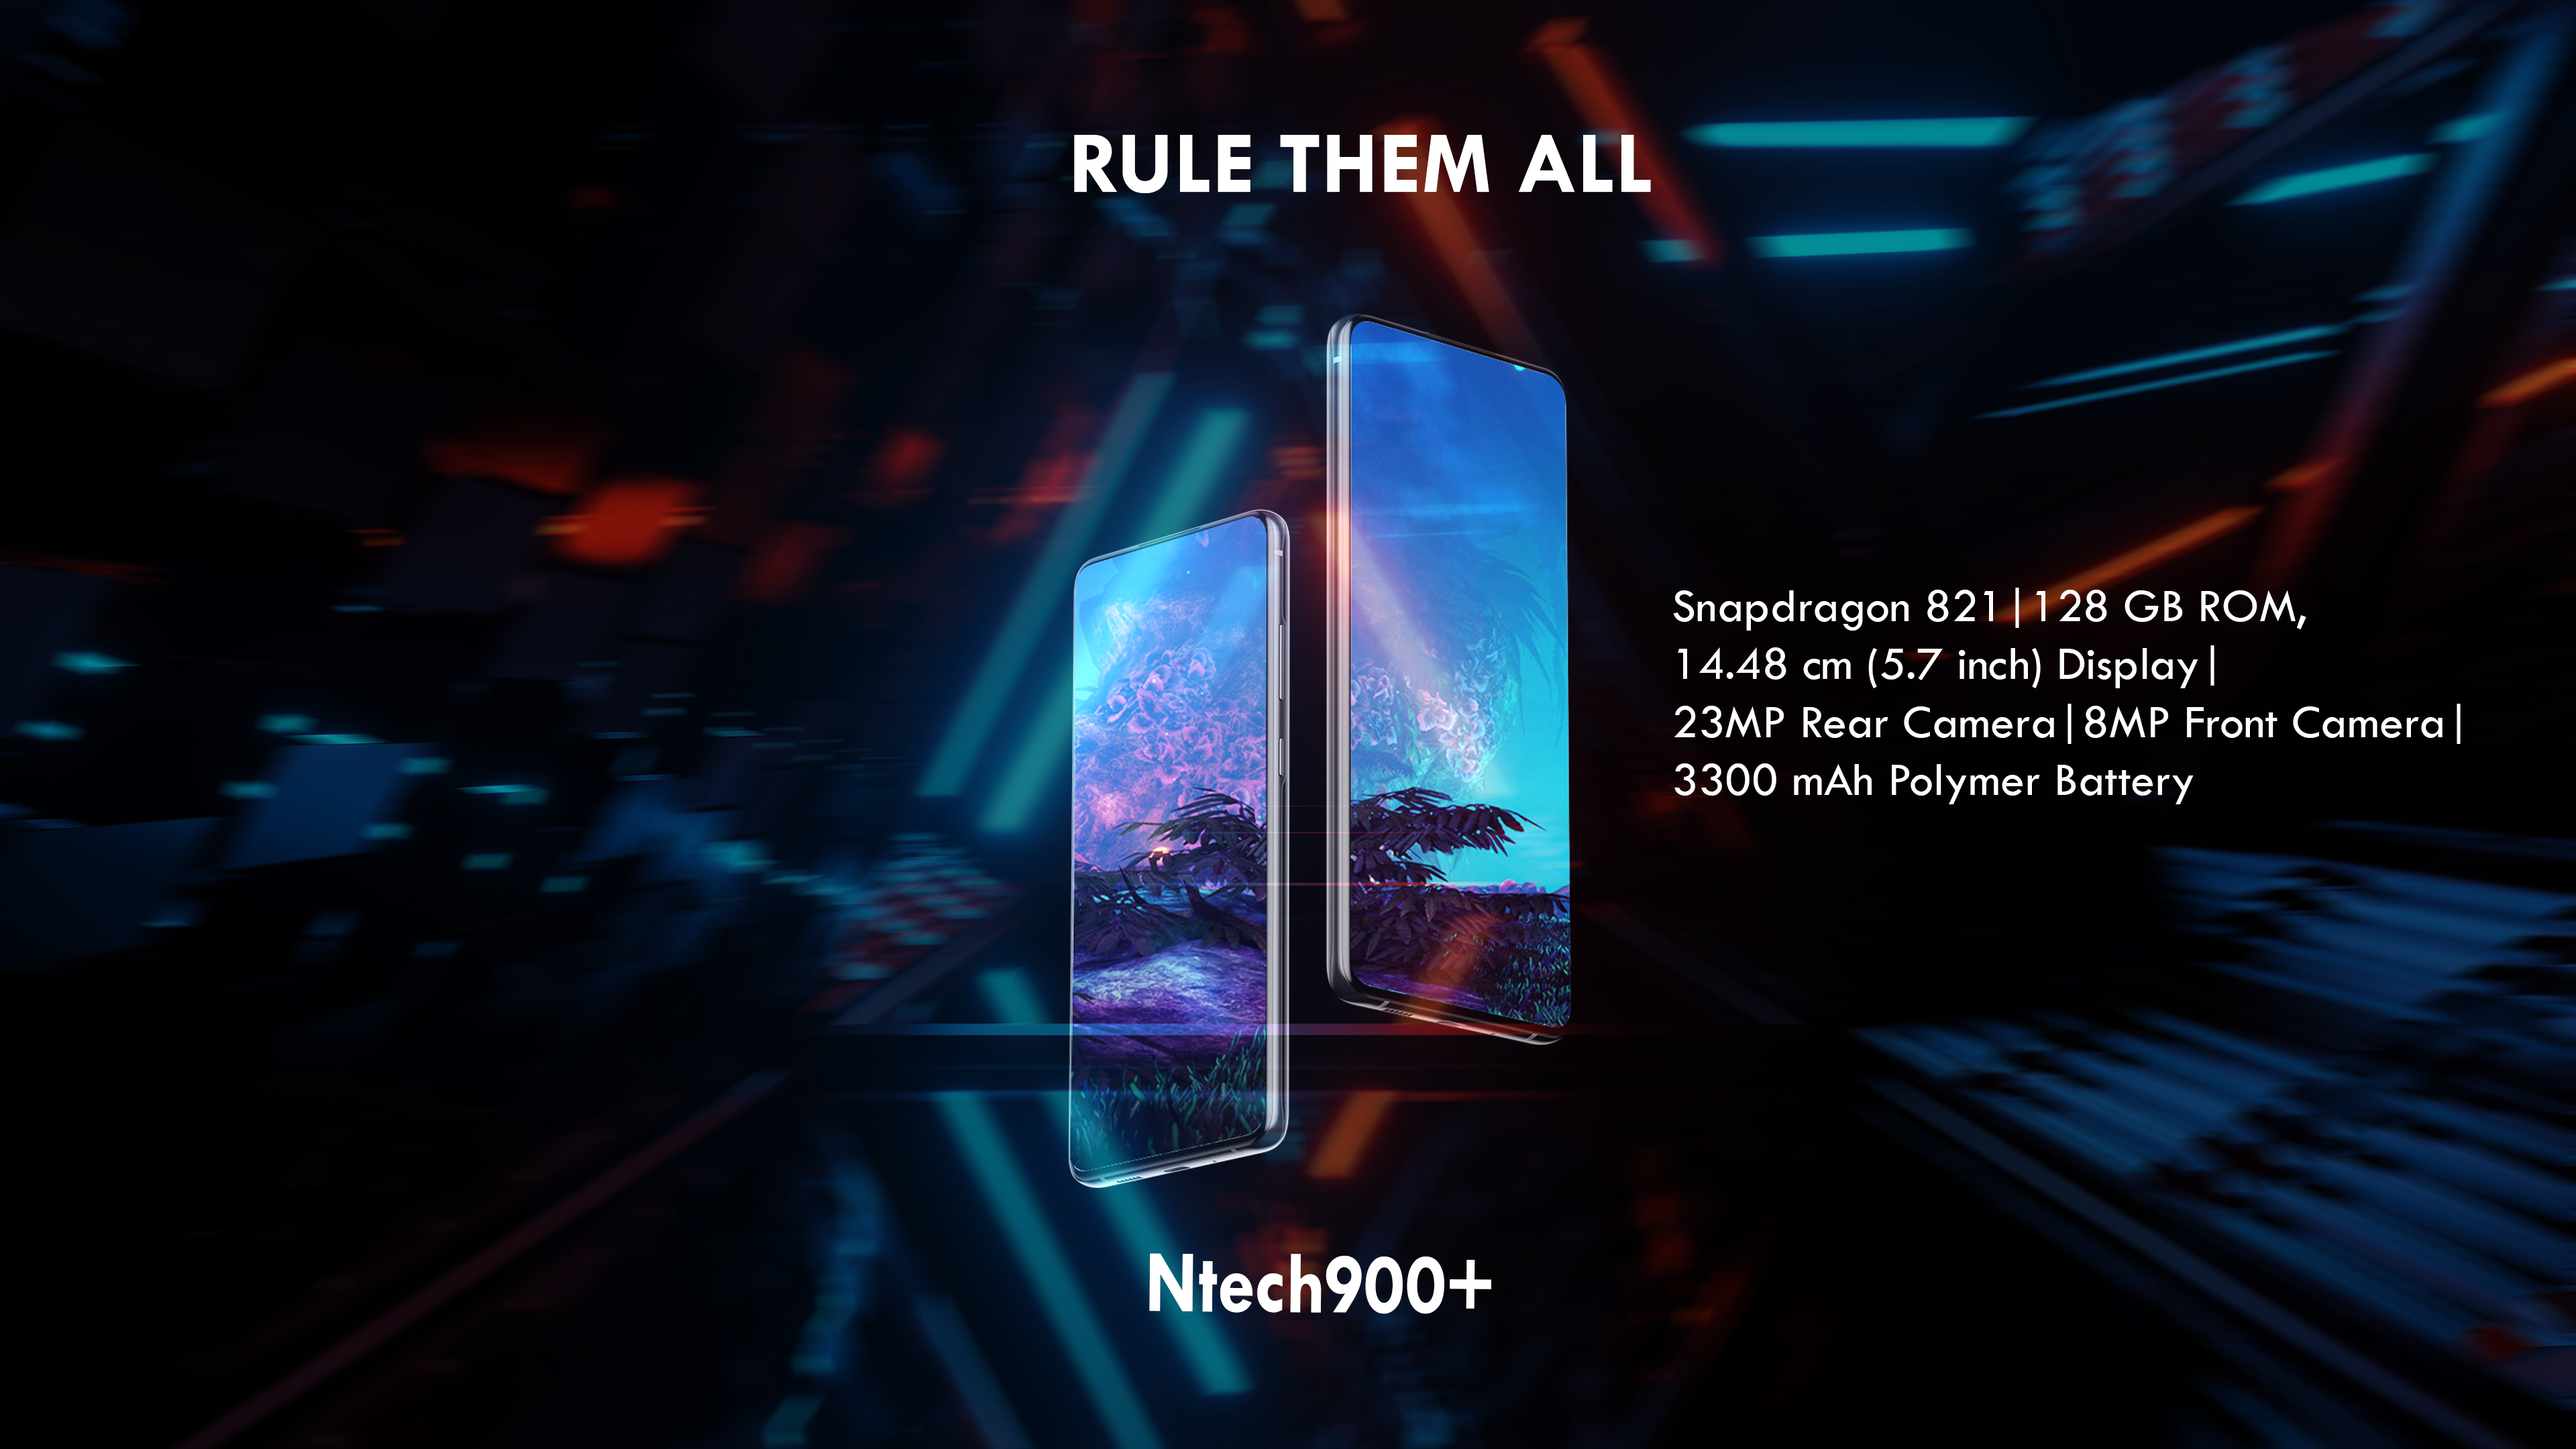
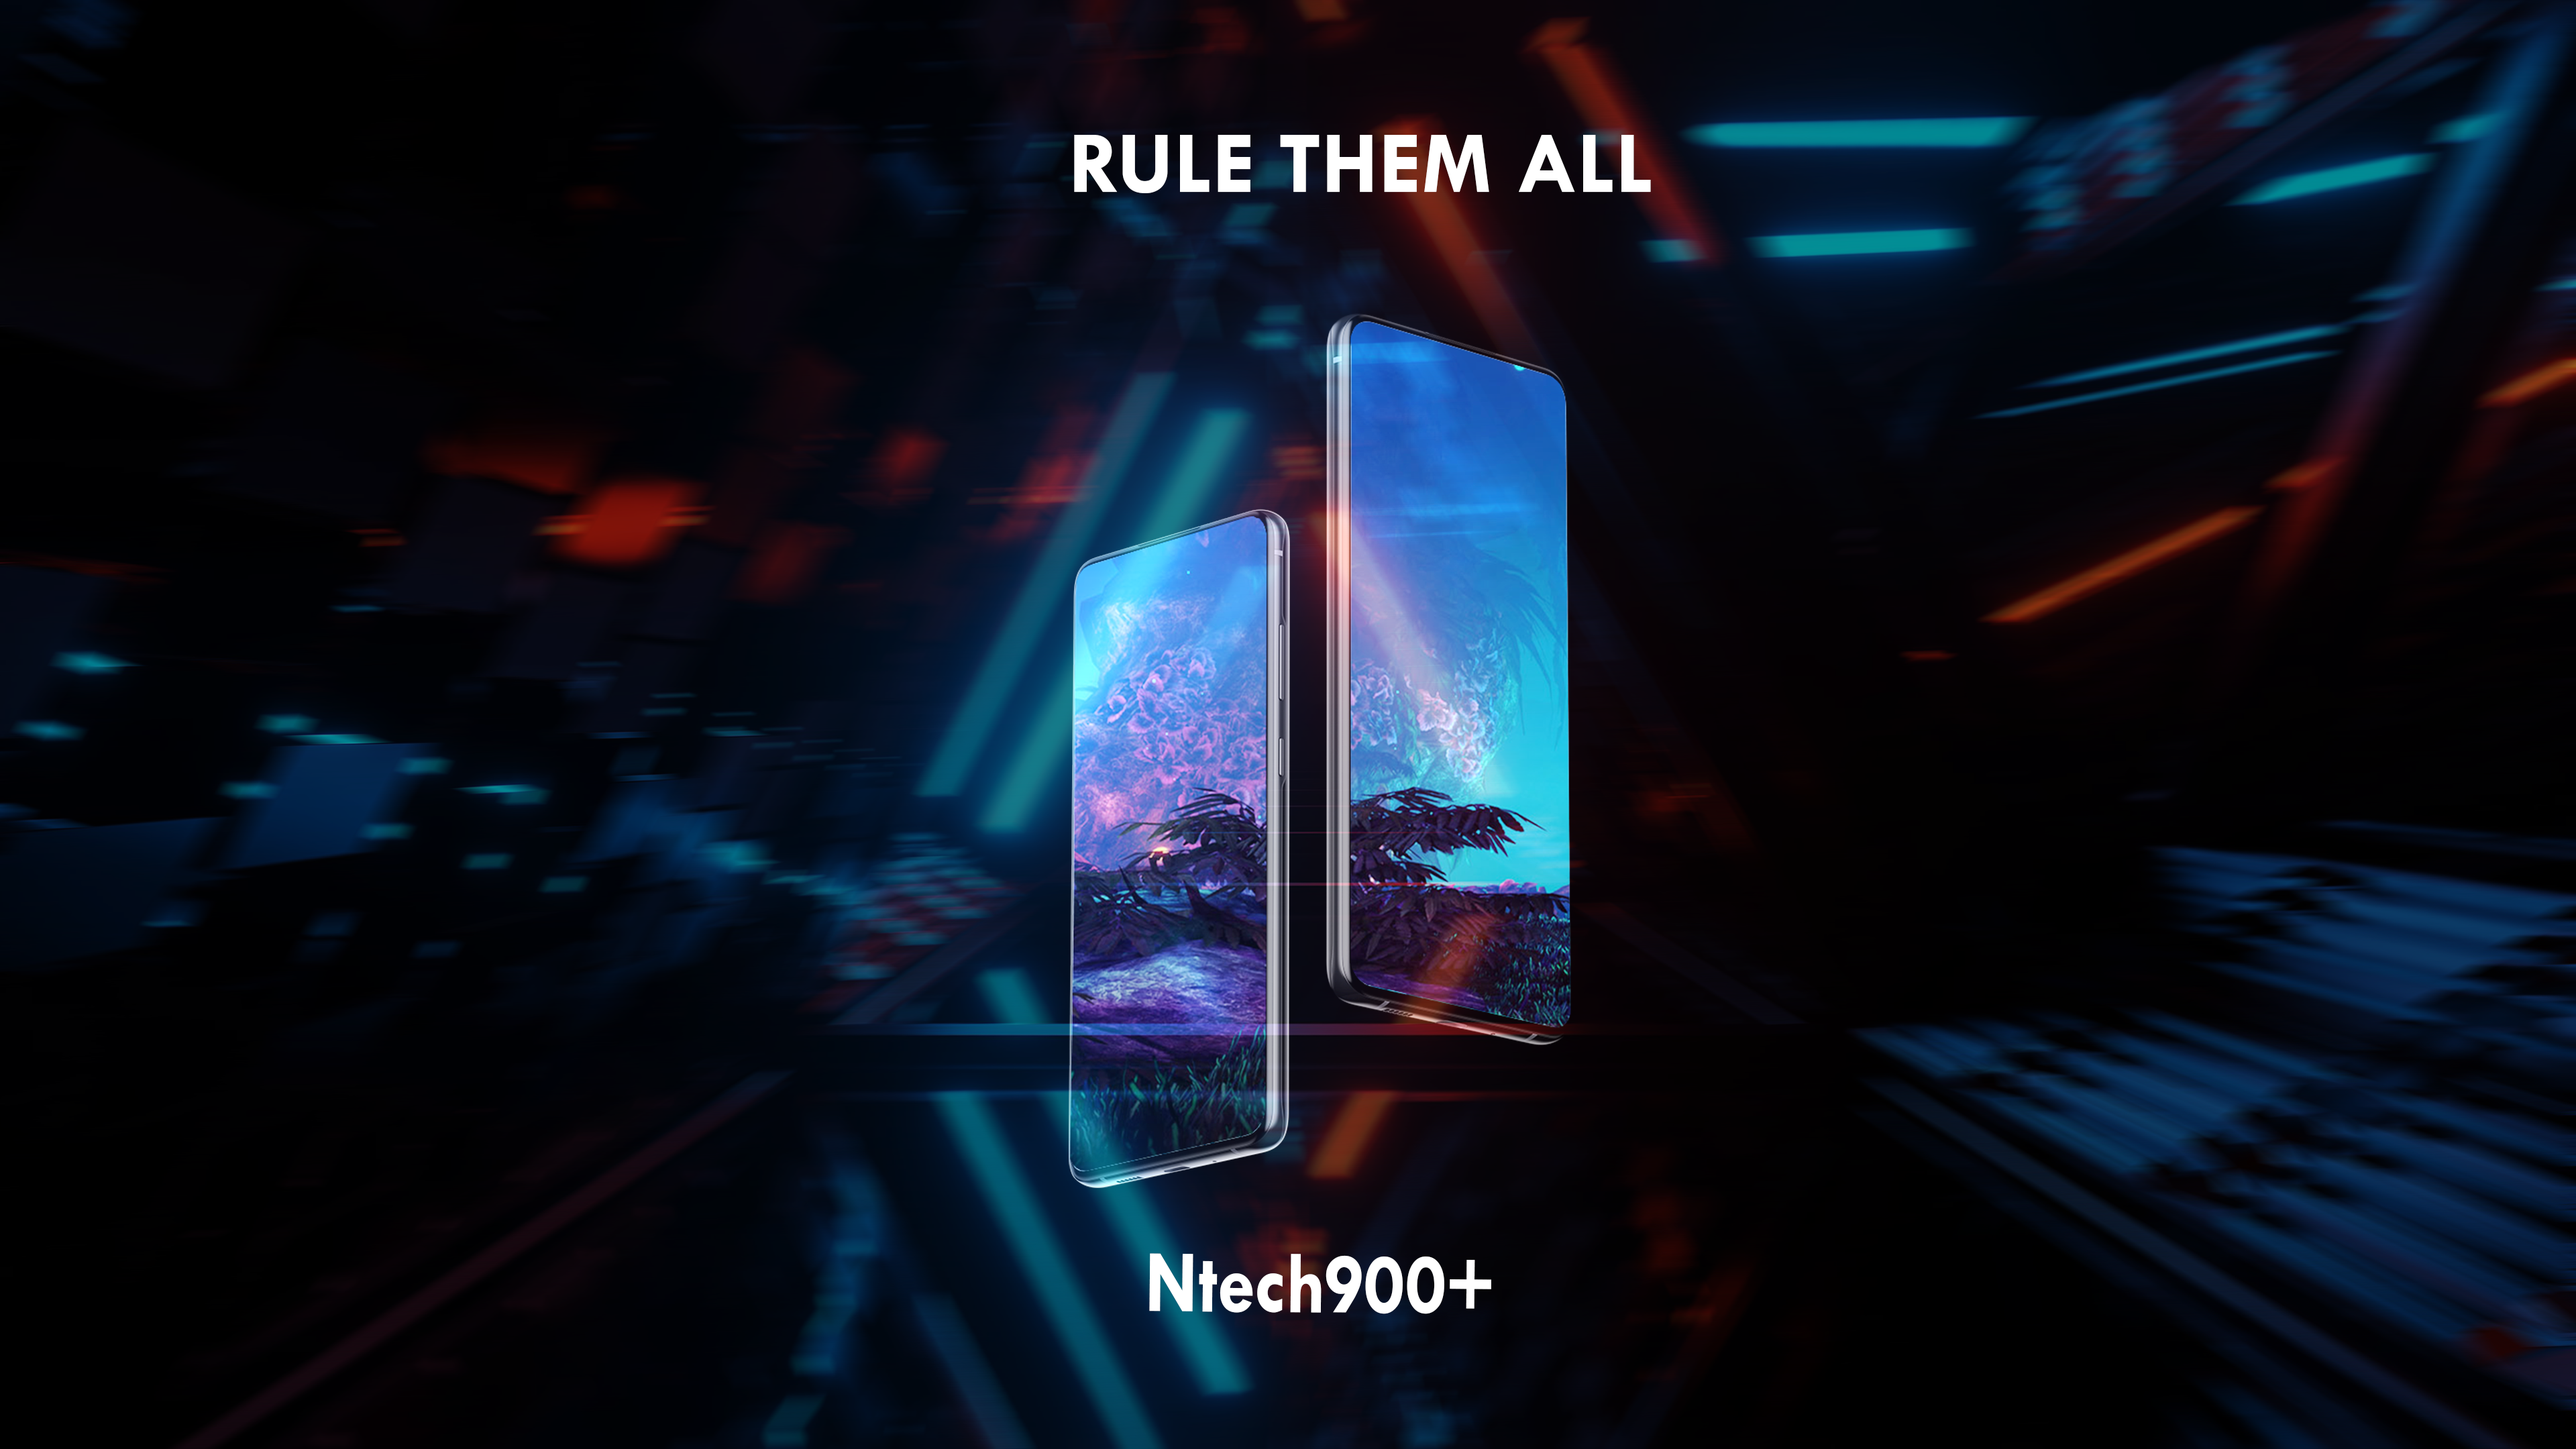
v7

Changed region(s): [[0.6562, 0.4032, 0.9375, 0.5583]]

diff --git a/src/components/layout.css b/src/components/layout.css
@@ -90,18 +90,16 @@ h1, h2, h3, h4, h4, h5, h6 {
 }
 
 #home {
-  /* height: max-content; */
   background-image: url("../images/HTML\ USE\ IMAGE/banner.jpg");
   -webkit-background-size: cover;
   -moz-background-size: cover;
   -o-background-size: cover;
-  /* background-size: cover; */
+  background-size: cover;
   background-position: center center;
   /* height: fit-content; */
   background-repeat: no-repeat;
   overflow: hidden;
-  z-index: -1;
-  padding-top: 6em;
+  /* padding-top: 6em; */
   /* margin-top: -8em; */
 }
 
@@ -254,6 +252,13 @@ h1, h2, h3, h4, h4, h5, h6 {
 }
 
 #heading {
+  text-align: center;
+  font-size: 3em;
+  font-family: twcenmt !important;
+  margin-top: 2em;
+}
+
+#heading_ {
   text-align: center;
   font-size: 3em;
   font-family: twcenmt !important;
@@ -544,17 +549,52 @@ h1, h2, h3, h4, h4, h5, h6 {
 }
 
 #wallpaper {
-  width: 100em;
+  /* width: 200em !important; */
   height: 56em;
   background-image: url("../images/HTML\ USE\ IMAGE/pageswallpaper.png");
-  background-repeat: no-repeat;
-  background-size: cover;
+  -webkit-background-size: cover;
+  -moz-background-size: cover;
+  -o-background-size: cover;
+  background-size: contain;
   background-position: center center;
+  /* height: fit-content; */
+  background-repeat: no-repeat;
+  overflow: hidden;
+  z-index: -1;
+  /* padding-top: 6em; */
+  /* margin-top: -8em; */
+}
+
+#wallpaperp {
+  float: right;
+  width: 30em;
+  margin-top: 15em;
 }
 
 
 /* mobile phones */
 @media screen and (max-width:480px){
+  #heading_ {
+    text-align: center;
+    font-size: 3em;
+    font-family: twcenmt !important;
+    margin-top: 2em;
+    position: relative;
+    top: -7em;
+  }
+  #wallpaperp {
+    position: relative;
+    top: -17em;
+    font-size: 1em !important;
+    width: 18em;
+  }
+
+  #wallpaper {
+    width: auto;
+    background-size: cover;
+    height: auto;
+  }
+
   .touch {
     padding: 0;
     margin: 0;
@@ -580,26 +620,21 @@ h1, h2, h3, h4, h4, h5, h6 {
   #arphonesp {
       margin-right: 0;
   }
+
   .slide {
     height: 30em;
   }
 
   .homephonemid{
-    height: 50%;
-    width: 50%;
-    margin-top: initial;
+    height: 25%;
+    width: 25%;
+    padding-top: 10em;
   }
 
   .homephone {
-    height: 25%;
-    width: 25%;
-    margin-top: initial;
-  }
-  
-  #wallpaper {
-    width: initial;
-    background-size: cover;
-    height: 30em;
+    height: 15%;
+    width: 15%;
+    padding-top: 10em;
   }
 
   #convinceicons {
@@ -717,6 +752,17 @@ h1, h2, h3, h4, h4, h5, h6 {
 /* tablets */
 
 @media only screen and (max-device-width: 768px){
+
+  #home {
+    height: auto;
+  }
+  #wallpaper {
+    width: auto;
+    background-size: contain;
+    padding-top: 20em;
+    height: auto;
+  }
+
   .line {
     transform: rotate(90deg);
     justify-content: center;

diff --git a/src/components/PageWallpaper.js b/src/components/PageWallpaper.js
@@ -1,11 +1,7 @@
 import { Link } from "gatsby"
 import React, { useEffect, useState } from "react"
-import homeBackground from "../images/home-background-bright.png"
-import Container from "@material-ui/core/Container"
 import Slide from "@material-ui/core/Slide"
 import VisibilitySensor from "react-visibility-sensor"
-import Carousel from "react-material-ui-carousel"
-import Home from "./Home.js"
 import { Button } from "@material-ui/core"
 
 const PagesWallpaper = () => {
@@ -18,11 +14,10 @@ const PagesWallpaper = () => {
   return (
     <VisibilitySensor partialVisibility onChange={onChange}>
       <div id="wallpaper">
-        <Container maxWidth="xl">
           <Slide in={isVisible} timeout={{ enter: 3000 }}>
             <p id="wallpaperp">
               Snapdragon 821|128 GB ROM, 14.48 cm (5.7 inch) Display| 23MP Rear
-              Camera|8MP Front Camera| 3300 mAh Polymer Battery
+              Camera| 8MP Front Camera| 3300 mAh Polymer Battery
               <span>
                 <br />
                 <br />
@@ -33,7 +28,6 @@ const PagesWallpaper = () => {
               </span>
             </p>
           </Slide>
-        </Container>
       </div>
     </VisibilitySensor>
   )

diff --git a/src/components/PagesHome.js b/src/components/PagesHome.js
@@ -12,6 +12,7 @@ import VisibilitySensor from "react-visibility-sensor"
 import Carousel from "react-material-ui-carousel"
 import Home from "./Home.js"
 import PagesWallpaper from "../images/HTML USE IMAGE/pageswallpaper.png"
+import PageWallpaper from "./PageWallpaper";
 
 const PagesHome = () => {
   const [isVisible, setVisibility] = useState(false)
@@ -23,7 +24,7 @@ const PagesHome = () => {
   return (
     <VisibilitySensor partialVisibility onChange={onChange}>
       <div>
-        <Container maxWidth="xl">
+        <Container maxWidth="xl" style={{margin: 0, padding: 0}}>
           <Carousel>
             <center>
               <div className="slide">
@@ -32,7 +33,7 @@ const PagesHome = () => {
             </center>
             <center>
               <div className="slide">
-                <img src={PagesWallpaper} id="wallpaper" />
+                <PageWallpaper />
               </div>
             </center>
           </Carousel>

diff --git a/src/components/Home.js b/src/components/Home.js
@@ -19,7 +19,6 @@ const Home = () => {
   return (
     <VisibilitySensor partialVisibility onChange={onChange}>
       <div id="home">
-        <Container>
           <center>
             <div
               style={{
@@ -55,13 +54,10 @@ const Home = () => {
                 timeout={2000}
               >
                 <img src={phoner} className="homephone" />
-              </Slide>
-            </div>
+            </Slide>
+          </div>
+          <h4 id="heading_">Augmented Reality - The Ultimate Technology </h4>
           </center>
-        </Container>
-        <Container>
-          <h4 id="heading">Augmented Reality - The Ultimate Technology </h4>
-        </Container>
       </div>
     </VisibilitySensor>
   )

diff --git a/src/pages/page-2.js b/src/pages/page-2.js
@@ -1,16 +1,18 @@
-import React from "react"
+import React, { useEffect } from "react"
 import { Link } from "gatsby"
 
 import Layout from "../components/layout"
+import Image from "../components/image"
 import SEO from "../components/seo"
+import PagesWallpaper from "../components/PageWallpaper.js"
+import About from "../components/About.js"
+import Convince from "../components/Convince.js"
 
-const SecondPage = () => (
+const IndexPage = () => (
   <Layout>
-    <SEO title="Page two" />
-    <h1>Hi from the second page</h1>
-    <p>Welcome to page 2</p>
-    <Link to="/">Go back to the homepage</Link>
+    <SEO title="Home" />
+    <PagesWallpaper />
   </Layout>
 )
 
-export default SecondPage
+export default IndexPage
